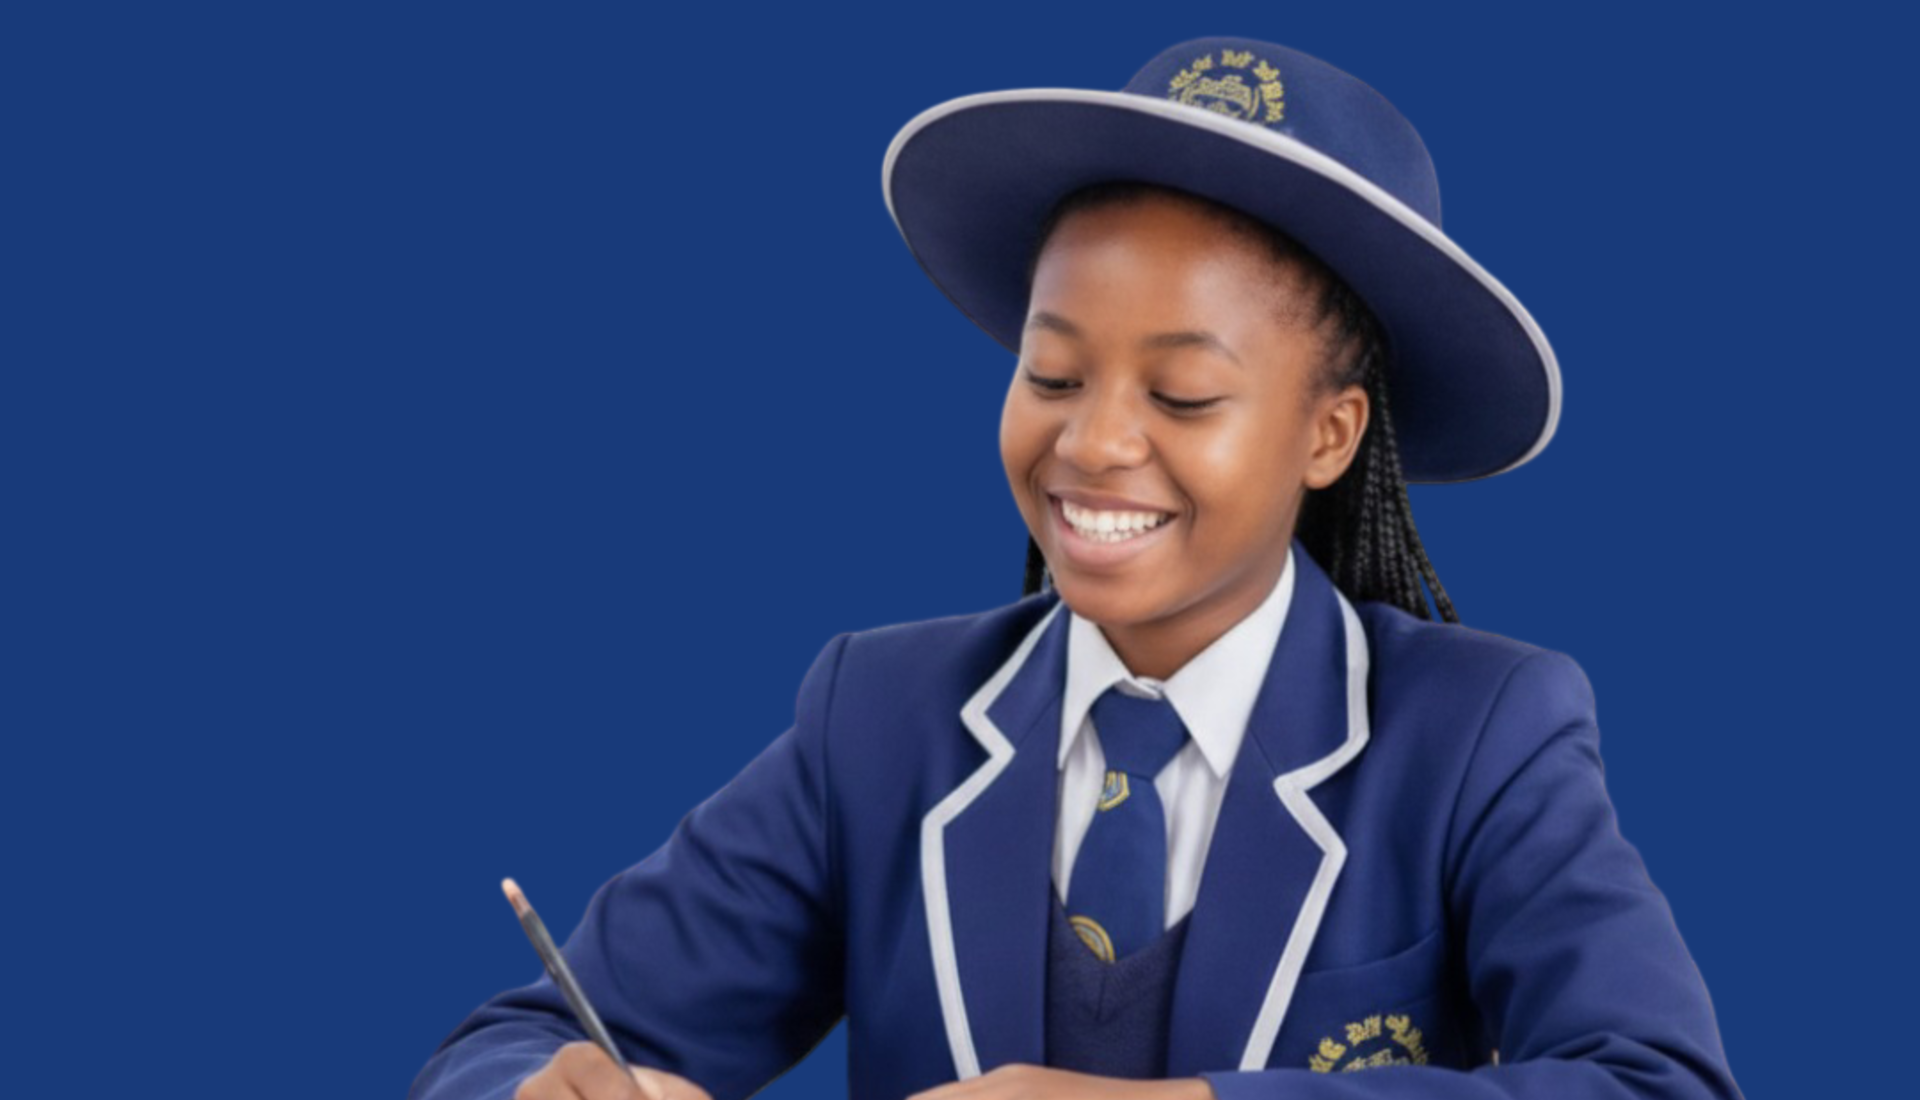
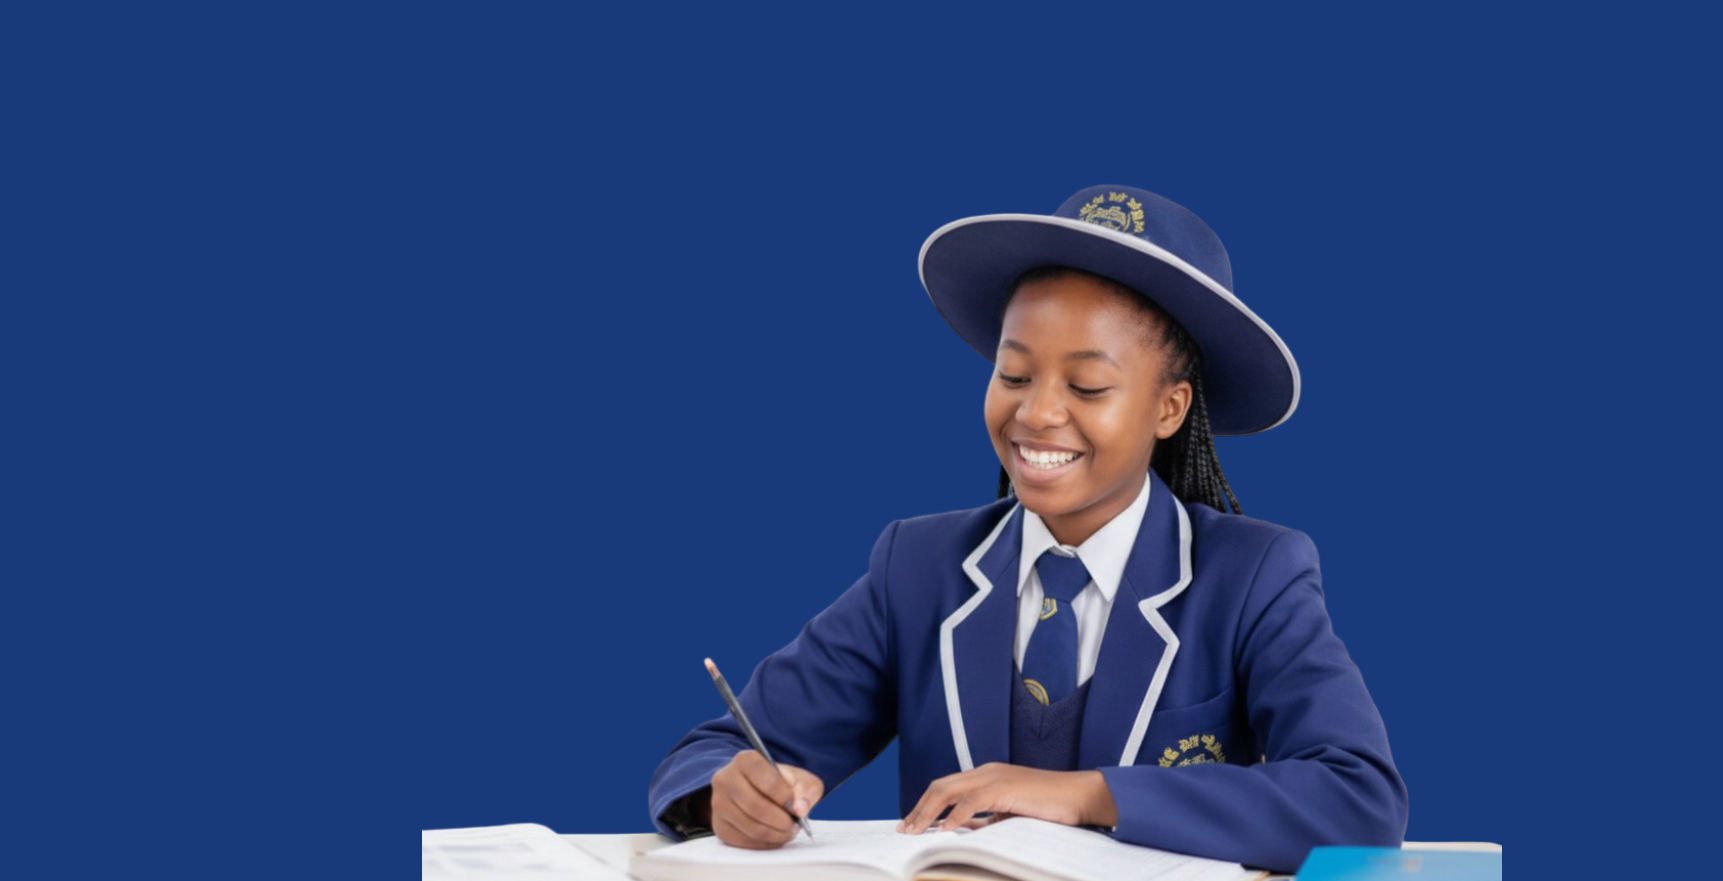
final 2

Changed region(s): [[0.2153, 0.0306, 0.9228, 1.0]]

diff --git a/demo-elearning-about.html b/demo-elearning-about.html
@@ -66,7 +66,7 @@
         </header>
         <!-- end header --> 
         <!-- start page title -->
-        <section class="ipad-top-space-margin bg-dark-gray cover-background page-title-big-typography" style="background-image: url(images/about-main.jpeg)">
+        <section class="ipad-top-space-margin bg-dark-gray cover-background page-title-big-typography" style="background-image: url(images/about-main.png)">
             <div class="background-position-center-top h-100 w-100 position-absolute left-0px top-0" style="background-image: url('images/vertical-line-bg-small.svg')"></div>
             <div id="particles-style-01" class="h-100 position-absolute left-0px top-0 w-100" data-particle="true" data-particle-options='{"particles": {"number": {"value": 8,"density": {"enable": true,"value_area": 2000}},"color": {"value": ["#d5d52b", "#d5d52b", "#d5d52b", "#d5d52b", "#d5d52b"]},"shape": {"type": "circle","stroke":{"width":0,"color":"#000000"}},"opacity": {"value": 1,"random": false,"anim": {"enable": false,"speed": 1,"sync": false}},"size": {"value": 8,"random": true,"anim": {"enable": false,"sync": true}},"line_linked":{"enable":false,"distance":0,"color":"#ffffff","opacity":1,"width":1},"move": {"enable": true,"speed":1,"direction": "right","random": false,"straight": false}},"interactivity": {"detect_on": "canvas","events": {"onhover": {"enable": false,"mode": "repulse"},"onclick": {"enable": false,"mode": "push"},"resize": true}},"retina_detect": false}'></div>
             <div class="container">
@@ -326,10 +326,10 @@ In just a few years, we have built a reputation for academic rigor, dedicated te
             <!-- Contact Us -->
             <div class="col-lg-3 col-md-6">
                 <h6 class="text-white fw-bold mb-4">Contact Us</h6>
-                <p class="mb-2"><i class="bi bi-telephone me-2 text-warning"></i> 0776 746 817<br><i class="bi bi-telephone me-2 text-warning"></i> 0778 550 367</p>
+                <p class="mb-2"><i class="bi bi-telephone me-2 text-warning"></i>0775 746 617<br><i class="bi bi-telephone me-2 text-warning"></i> 0778 550 367 <br> <i class="bi bi-telephone me-2 text-warning"></i>0719 746 617</p>
                 <p class="mb-2"><i class="bi bi-envelope me-2 text-warning"></i> info@choxydeeacademy.co.zw</p>
                 <p class="mb-2"><i class="bi bi-geo-alt me-2 text-warning"></i> 11331 Glen Norah C, Masimbi</p>
-                <p class="mb-2"><i class="bi bi-geo-alt me-2 text-warning"></i> 3223 Southly Park, Mufakose</p>
+                <p class="mb-2"><i class="bi bi-geo-alt me-2 text-warning"></i> 5223 Southly Park, Magetsi</p>
             </div>
 
            <!-- Connect With Us -->

diff --git a/demo-elearning-contact.html b/demo-elearning-contact.html
@@ -120,12 +120,14 @@
                Masimbi
             </p>
             <p class="w-100 mb-10px">
-              3223 Southly Park<br>
-               Mufakose
+              5223 Southly Park<br>
+               Magetsi
             </p>
 
             <div class="w-100 d-block">
                 <span class="d-block"><span class="text-dark-gray fw-600">T:</span> <a href="tel:+263778550367"> +263 778 550 367</a></span>
+                <span class="d-block"><span class="text-dark-gray fw-600">T:</span> <a href="tel:+263775746617"> +263 775 746 617</a></span>
+                <span class="d-block"><span class="text-dark-gray fw-600">T:</span> <a href="tel:+263719746617"> +263 719 746 617</a></span>
 
                 <span class="d-block"><span class="text-dark-gray fw-600">E:</span>
                     <a href="mailto:info@yourdomain.com" class="text-dark-gray text-decoration-line-bottom fw-600">
@@ -312,10 +314,10 @@
             <!-- Contact Us -->
             <div class="col-lg-3 col-md-6">
                 <h6 class="text-white fw-bold mb-4">Contact Us</h6>
-                <p class="mb-2"><i class="bi bi-telephone me-2 text-warning"></i> 0776 746 817<br><i class="bi bi-telephone me-2 text-warning"></i> 0778 550 367</p>
+                <p class="mb-2"><i class="bi bi-telephone me-2 text-warning"></i>0775 746 617<br><i class="bi bi-telephone me-2 text-warning"></i> 0778 550 367 <br> <i class="bi bi-telephone me-2 text-warning"></i>0719 746 617</p>
                 <p class="mb-2"><i class="bi bi-envelope me-2 text-warning"></i> info@choxydeeacademy.co.zw</p>
                 <p class="mb-2"><i class="bi bi-geo-alt me-2 text-warning"></i> 11331 Glen Norah C, Masimbi</p>
-                <p class="mb-2"><i class="bi bi-geo-alt me-2 text-warning"></i> 3223 Southly Park, Mufakose</p>
+                <p class="mb-2"><i class="bi bi-geo-alt me-2 text-warning"></i> 5223 Southly Park, Magetsi</p>
             </div>
 
            <!-- Connect With Us -->

diff --git a/demo-elearning.html b/demo-elearning.html
@@ -57,7 +57,7 @@
                     </div>
                     <div class="col-auto col-lg-2 text-end d-none d-sm-flex">
                         <div class="header-icon">
-                            <div><div class="alt-font fw-500 lg-fs-15"><a href="tel:263776746817" class="widget-text text-white-hover"><i class="feather icon-feather-phone-call me-10px lg-me-5px"></i> +263 776 746 817</a></div></div>
+                            <div><div class="alt-font fw-500 lg-fs-15"><a href="tel:+263719746617" class="widget-text text-white-hover"><i class="feather icon-feather-phone-call me-10px lg-me-5px"></i> +263 719 746 617</a></div></div>
                         </div>  
                     </div>
                 </div>
@@ -757,10 +757,10 @@ Welcome To Choxy Dee Academy</span>
             <!-- Contact Us -->
             <div class="col-lg-3 col-md-6">
                 <h6 class="text-white fw-bold mb-4">Contact Us</h6>
-                <p class="mb-2"><i class="bi bi-telephone me-2 text-warning"></i> 0776 746 817<br><i class="bi bi-telephone me-2 text-warning"></i> 0778 550 367</p>
+                <p class="mb-2"><i class="bi bi-telephone me-2 text-warning"></i>0775 746 617<br><i class="bi bi-telephone me-2 text-warning"></i> 0778 550 367 <br> <i class="bi bi-telephone me-2 text-warning"></i>0719 746 617</p>
                 <p class="mb-2"><i class="bi bi-envelope me-2 text-warning"></i> info@choxydeeacademy.co.zw</p>
                 <p class="mb-2"><i class="bi bi-geo-alt me-2 text-warning"></i> 11331 Glen Norah C, Masimbi</p>
-                <p class="mb-2"><i class="bi bi-geo-alt me-2 text-warning"></i> 3223 Southly Park, Mufakose</p>
+                <p class="mb-2"><i class="bi bi-geo-alt me-2 text-warning"></i> 5223 Southly Park, Magetsi</p>
             </div>
 
            <!-- Connect With Us -->

diff --git a/gallery.html b/gallery.html
@@ -57,7 +57,7 @@
                     </div>
                     <div class="col-auto col-lg-2 text-end d-none d-sm-flex">
                         <div class="header-icon">
-                            <div><div class="alt-font fw-500 lg-fs-15"><a href="tel:263776746817" class="widget-text text-white-hover"><i class="feather icon-feather-phone-call me-10px lg-me-5px"></i> +263 776 746 817</a></div></div>
+                            <div><div class="alt-font fw-500 lg-fs-15"><a href="tel:263719746617" class="widget-text text-white-hover"><i class="feather icon-feather-phone-call me-10px lg-me-5px"></i> +263 719 746 617</a></div></div>
                         </div>  
                     </div>
                 </div>
@@ -203,10 +203,10 @@
             <!-- Contact Us -->
             <div class="col-lg-3 col-md-6">
                 <h6 class="text-white fw-bold mb-4">Contact Us</h6>
-                <p class="mb-2"><i class="bi bi-telephone me-2 text-warning"></i> 0776 746 817<br><i class="bi bi-telephone me-2 text-warning"></i> 0778 550 367</p>
+                <p class="mb-2"><i class="bi bi-telephone me-2 text-warning"></i>0775 746 617<br><i class="bi bi-telephone me-2 text-warning"></i> 0778 550 367 <br> <i class="bi bi-telephone me-2 text-warning"></i>0719 746 617</p>
                 <p class="mb-2"><i class="bi bi-envelope me-2 text-warning"></i> info@choxydeeacademy.co.zw</p>
                 <p class="mb-2"><i class="bi bi-geo-alt me-2 text-warning"></i> 11331 Glen Norah C, Masimbi</p>
-                <p class="mb-2"><i class="bi bi-geo-alt me-2 text-warning"></i> 3223 Southly Park, Mufakose</p>
+                <p class="mb-2"><i class="bi bi-geo-alt me-2 text-warning"></i> 5223 Southly Park, Magetsi</p>
             </div>
 
            <!-- Connect With Us -->

diff --git a/demo-elearning-blog.html b/demo-elearning-blog.html
@@ -269,10 +269,10 @@
             <!-- Contact Us -->
             <div class="col-lg-3 col-md-6">
                 <h6 class="text-white fw-bold mb-4">Contact Us</h6>
-                <p class="mb-2"><i class="bi bi-telephone me-2 text-warning"></i> 0776 746 817<br><i class="bi bi-telephone me-2 text-warning"></i> 0778 550 367</p>
-              <p class="mb-2"><i class="bi bi-envelope me-2 text-warning"></i> info@choxydeeacademy.co.zw</p>
+                <p class="mb-2"><i class="bi bi-telephone me-2 text-warning"></i>0775 746 617<br><i class="bi bi-telephone me-2 text-warning"></i> 0778 550 367 <br> <i class="bi bi-telephone me-2 text-warning"></i>0719 746 617</p>
+                <p class="mb-2"><i class="bi bi-envelope me-2 text-warning"></i> info@choxydeeacademy.co.zw</p>
                 <p class="mb-2"><i class="bi bi-geo-alt me-2 text-warning"></i> 11331 Glen Norah C, Masimbi</p>
-                <p class="mb-2"><i class="bi bi-geo-alt me-2 text-warning"></i> 3223 Southly Park, Mufakose</p>
+                <p class="mb-2"><i class="bi bi-geo-alt me-2 text-warning"></i> 5223 Southly Park, Magetsi</p>
             </div>
 
            <!-- Connect With Us -->

diff --git a/demo-elearning-courses-details.html b/demo-elearning-courses-details.html
@@ -489,10 +489,10 @@ width:100%;
             <!-- Contact Us -->
             <div class="col-lg-3 col-md-6">
                 <h6 class="text-white fw-bold mb-4">Contact Us</h6>
-                <p class="mb-2"><i class="bi bi-telephone me-2 text-warning"></i> 0776 746 817<br><i class="bi bi-telephone me-2 text-warning"></i> 0778 550 367</p>
+                <p class="mb-2"><i class="bi bi-telephone me-2 text-warning"></i>0775 746 617<br><i class="bi bi-telephone me-2 text-warning"></i> 0778 550 367 <br> <i class="bi bi-telephone me-2 text-warning"></i>0719 746 617</p>
                 <p class="mb-2"><i class="bi bi-envelope me-2 text-warning"></i> info@choxydeeacademy.co.zw</p>
                 <p class="mb-2"><i class="bi bi-geo-alt me-2 text-warning"></i> 11331 Glen Norah C, Masimbi</p>
-                <p class="mb-2"><i class="bi bi-geo-alt me-2 text-warning"></i> 3223 Southly Park, Mufakose</p>
+                <p class="mb-2"><i class="bi bi-geo-alt me-2 text-warning"></i> 5223 Southly Park, Magetsi</p>
             </div>
 
            <!-- Connect With Us -->

diff --git a/demo-elearning-instructors.html b/demo-elearning-instructors.html
@@ -375,10 +375,10 @@
             <!-- Contact Us -->
             <div class="col-lg-3 col-md-6">
                 <h6 class="text-white fw-bold mb-4">Contact Us</h6>
-                <p class="mb-2"><i class="bi bi-telephone me-2 text-warning"></i> 0776 746 817<br><i class="bi bi-telephone me-2 text-warning"></i> 0778 550 367</p>
+                <p class="mb-2"><i class="bi bi-telephone me-2 text-warning"></i>0775 746 617<br><i class="bi bi-telephone me-2 text-warning"></i> 0778 550 367 <br> <i class="bi bi-telephone me-2 text-warning"></i>0719 746 617</p>
                 <p class="mb-2"><i class="bi bi-envelope me-2 text-warning"></i> info@choxydeeacademy.co.zw</p>
                 <p class="mb-2"><i class="bi bi-geo-alt me-2 text-warning"></i> 11331 Glen Norah C, Masimbi</p>
-                <p class="mb-2"><i class="bi bi-geo-alt me-2 text-warning"></i> 3223 Southly Park, Mufakose</p>
+                <p class="mb-2"><i class="bi bi-geo-alt me-2 text-warning"></i> 5223 Southly Park, Magetsi</p>
             </div>
 
            <!-- Connect With Us -->

diff --git a/demo-elearning-testimonial.html b/demo-elearning-testimonial.html
@@ -507,10 +507,10 @@
             <!-- Contact Us -->
             <div class="col-lg-3 col-md-6">
                 <h6 class="text-white fw-bold mb-4">Contact Us</h6>
-                <p class="mb-2"><i class="bi bi-telephone me-2 text-warning"></i> 0776 746 817<br><i class="bi bi-telephone me-2 text-warning"></i> 0778 550 367</p>
+                <p class="mb-2"><i class="bi bi-telephone me-2 text-warning"></i>0775 746 617<br><i class="bi bi-telephone me-2 text-warning"></i> 0778 550 367 <br> <i class="bi bi-telephone me-2 text-warning"></i>0719 746 617</p>
                 <p class="mb-2"><i class="bi bi-envelope me-2 text-warning"></i> info@choxydeeacademy.co.zw</p>
                 <p class="mb-2"><i class="bi bi-geo-alt me-2 text-warning"></i> 11331 Glen Norah C, Masimbi</p>
-                <p class="mb-2"><i class="bi bi-geo-alt me-2 text-warning"></i> 3223 Southly Park, Mufakose</p>
+                <p class="mb-2"><i class="bi bi-geo-alt me-2 text-warning"></i> 5223 Southly Park, Magetsi</p>
             </div>
 
            <!-- Connect With Us -->

diff --git a/css/responsive.css b/css/responsive.css
@@ -19414,7 +19414,7 @@
     top: 0;
     width: 100%;
     height: 100%;
-    background: transparent;
+    background: #173d87;
     padding: 100px 50px;
     box-shadow: none;
     max-height: 100%;
